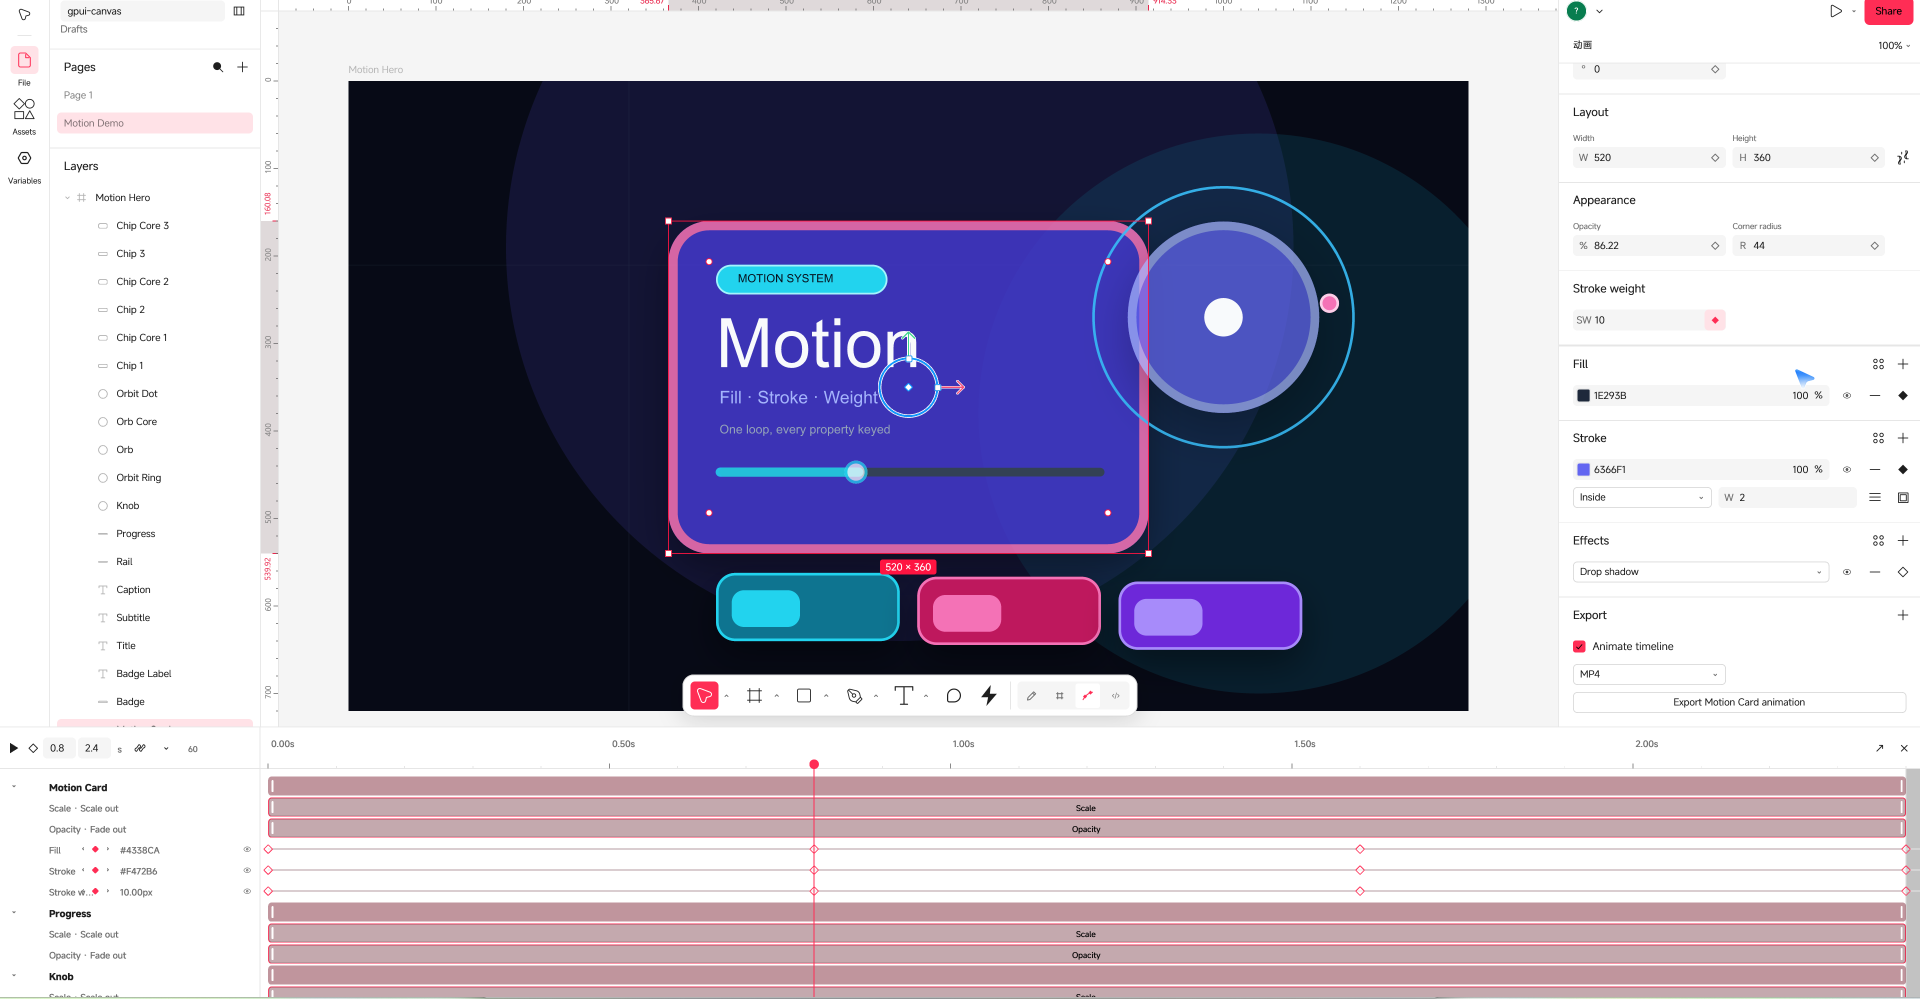
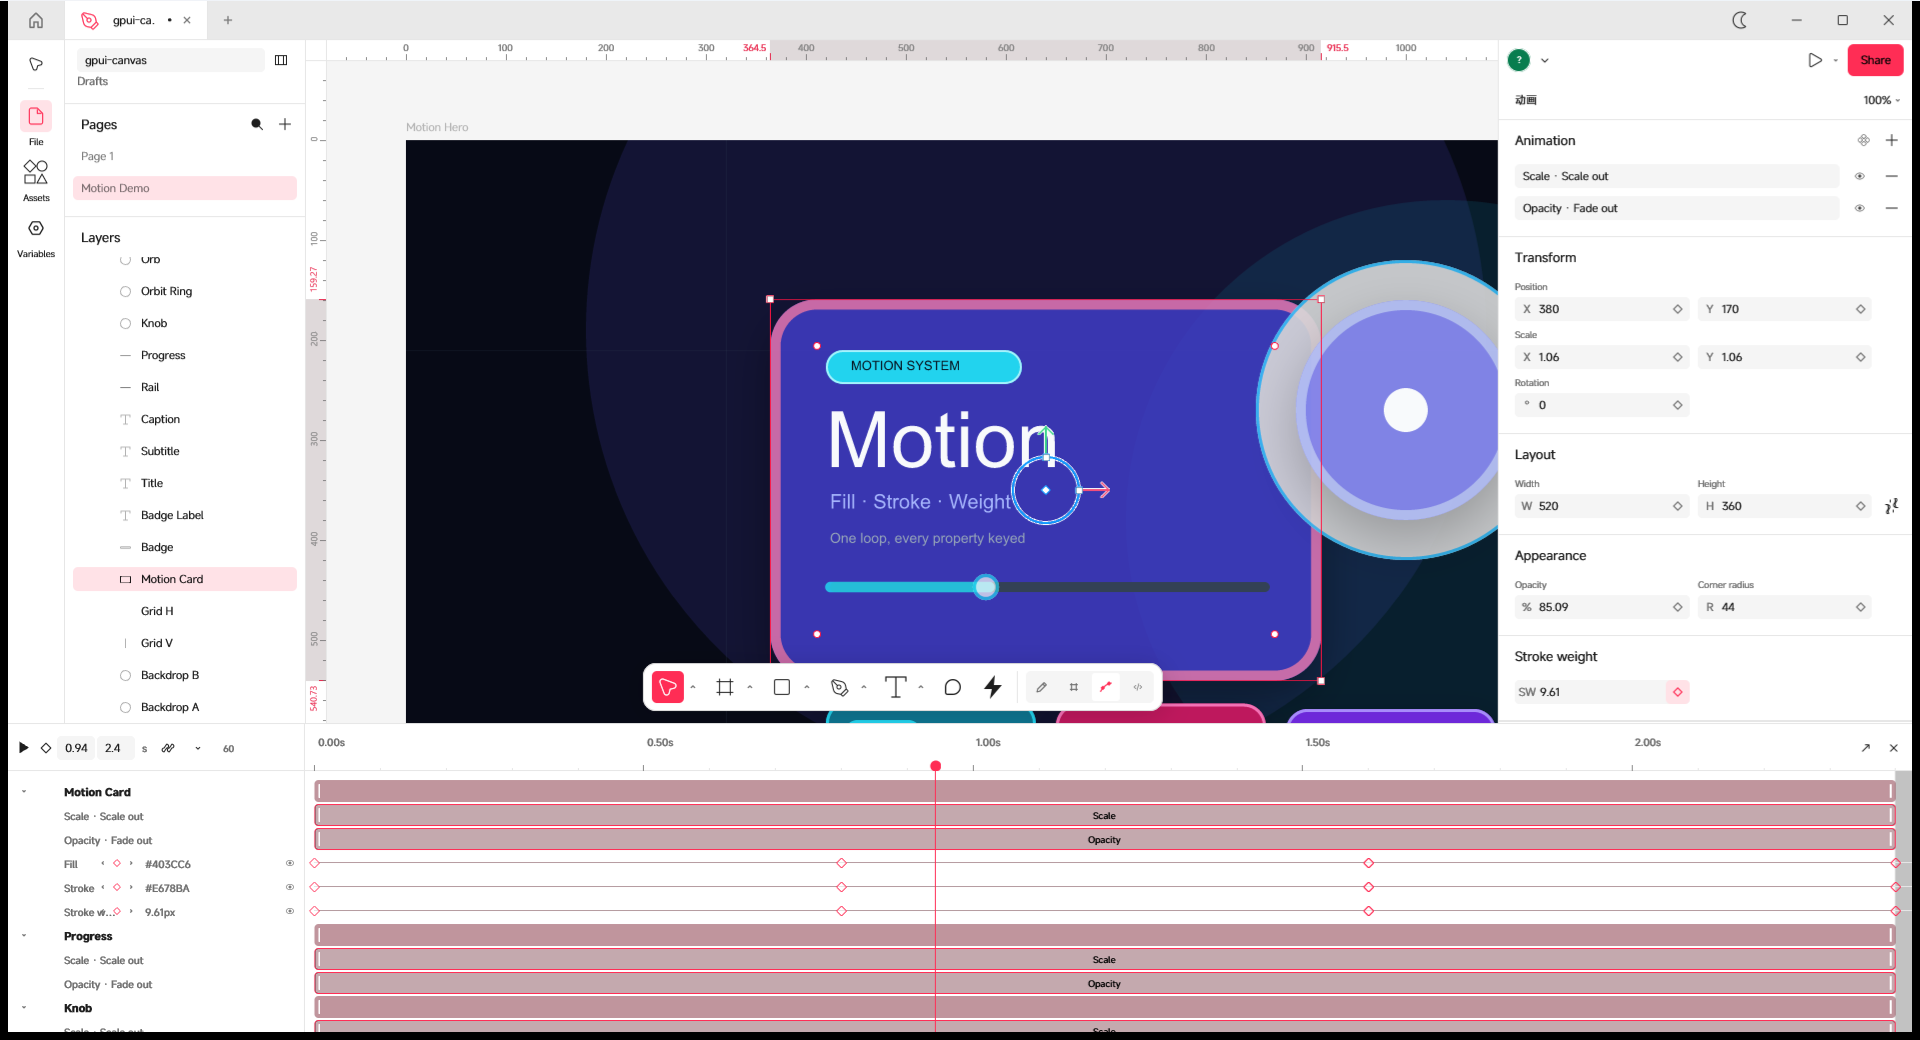
feat(export): export the selected layer without an animation switch

diff --git a/crates/ui-gpui/src/panels/right/sections.rs b/crates/ui-gpui/src/panels/right/sections.rs
@@ -2333,24 +2333,13 @@ pub(crate) fn export(f: &RightFields, d: &PanelData, col: f32, _n: &mut usize, c
     // page has no setting yet (the button falls back to PNG); only a non-page empty selection
     // collapses to an empty section.
     let rows = d.exports.clone().filter(|v| !v.is_empty()).unwrap_or_default();
-    // The Export section is the one export surface. In Motion mode a single selected layer also
-    // gets an animation switch here, so the timeline never needs a second Export dialog.
-    let animatable = motion && !page_mode && target.len() == 1;
-    let anim_on = animatable && f.export_animation.get();
-    if rows.is_empty() && !page_mode && !animatable {
+    // The selection is the export target. In Motion mode a single selected layer exports its
+    // timeline directly: no extra switch, no second Export dialog.
+    let anim_on = motion && !page_mode && target.len() == 1;
+    if rows.is_empty() && !page_mode && !anim_on {
         return Section::empty(tr("Export"), plus);
     }
     let mut sec = PanelSection::new(tr("Export")).header_trail(plus);
-    if animatable {
-        let state = f.export_animation.clone();
-        let wake = f.cmds.clone();
-        sec = sec.child(field_row_full(Checkbox::new("export-animation").label(tr("Animate timeline")).checked(anim_on).on_change(
-            move |on, _w, _cx| {
-                state.set(*on);
-                wake.wake();
-            },
-        )));
-    }
     // 预览框是整行宽（两列 + 间隙），图片再让出左右内边距与 8 pt 呼吸位。
     let full_w = col * 2.0 + crate::widgets::GRID_GAP;
     if anim_on {
@@ -2412,7 +2401,7 @@ pub(crate) fn export(f: &RightFields, d: &PanelData, col: f32, _n: &mut usize, c
         let scale = rows.first().and_then(|r| r.size.trim().trim_start_matches('@').trim_end_matches('x').parse::<f64>().ok()).unwrap_or(1.0);
         let cmd = CMDS[i];
         let params = json!({ "ids": &target, "format": EXTS[i], "fps": FPS[i], "scale": scale });
-        let label = if name.is_empty() { tr("Export animation").into() } else { trf("Export {name} animation", &[("name", &name)]).into() };
+        let label = if name.is_empty() { tr("Export").into() } else { trf("Export {name}", &[("name", &name)]).into() };
         (cmd, params, label)
     } else if page_mode {
         let fmt = rows.first().map(|r| r.format).unwrap_or("png");

diff --git a/crates/ui-gpui/src/panels.rs b/crates/ui-gpui/src/panels.rs
@@ -672,9 +672,6 @@ pub(crate) struct RightFields {
     /// Export 节「Preview」折叠行是否展开（egui `app.ui.export_thumb`）。纯 UI 状态，按窗口隔离；
     /// 只有展开时才让 `panel_data` 去光栅化预览图，避免每份文档白白渲染一张缩略图。
     export_preview_open: std::rc::Rc<std::cell::Cell<bool>>,
-    /// Export 节里「Animation」开关：打开后同一个 Export 按钮改走 `motion.export`，
-    /// 不再另开一个导出弹窗。纯 UI 状态，不进文档。
-    export_animation: std::rc::Rc<std::cell::Cell<bool>>,
     /// Animation 格式下标（0 MP4 / 1 GIF / 2 WebM / 3 PNG sequence），只影响当前窗口。
     export_animation_format: std::rc::Rc<std::cell::RefCell<usize>>,
     /// 该节头部是否悬停（lizard 只在悬停时画 chevron、把标题提亮）。
@@ -1331,7 +1328,6 @@ impl RightFields {
             selection_colors_open: std::rc::Rc::new(std::cell::RefCell::new(std::collections::HashMap::new())),
             selection_colors_hover: std::rc::Rc::new(std::cell::RefCell::new(false)),
             export_preview_open: std::rc::Rc::new(std::cell::Cell::new(false)),
-            export_animation: std::rc::Rc::new(std::cell::Cell::new(false)),
             export_animation_format: std::rc::Rc::new(std::cell::RefCell::new(0usize)),
             right_tab: std::rc::Rc::new(std::cell::RefCell::new(0u8)),
             local_style_renaming: local_style_renaming.clone(),
@@ -1522,7 +1518,6 @@ impl RightFields {
         f.selection_colors_open = Default::default();
         f.selection_colors_hover = Default::default();
         f.export_preview_open = Default::default();
-        f.export_animation = Default::default();
         f.export_animation_format = Default::default();
         f.right_tab = Default::default();
         f.local_style_renaming = Default::default();

diff --git a/README.md b/README.md
@@ -85,9 +85,9 @@ All screenshots below are of the running GPUI application (`cargo run -p figcraf
 </table>
 
 <p align="center">
-  <img src="docs/images/screenshots/09-animation-export.png" alt="The full Monet window in Motion mode: Motion Card selected, its Fill, Stroke and Stroke weight keyframes in the timeline, and the one right-hand Export section with Animate timeline enabled, an MP4 format picker and a single Export Motion Card animation button" width="900">
+  <img src="docs/images/screenshots/09-animation-export.png" alt="The full Monet window in Motion mode: Motion Card selected, its Fill, Stroke and Stroke weight keyframes in the timeline, and the right-hand Export section following the selection — an MP4 format picker and an Export Motion Card button, with no separate animation switch" width="900">
   <br>
-  <sub><b>One export surface</b> — the right-hand Export section switches between still-image export and MP4, GIF, WebM or PNG-sequence timeline export; there is no second export dialog, and the save/render path stays off the UI thread.</sub>
+  <sub><b>One export surface</b> — the right-hand Export section exports whatever layer is selected; in Motion mode the same section offers MP4, GIF, WebM or PNG-sequence timeline export, with no second dialog and no extra animation switch. The save/render path stays off the UI thread.</sub>
 </p>
 
 ## What this is

diff --git a/README.zh-CN.md b/README.zh-CN.md
@@ -84,9 +84,9 @@
 </table>
 
 <p align="center">
-  <img src="docs/images/screenshots/09-animation-export.png" alt="Monet 完整窗口的 Motion 模式：选中 Motion Card，时间轴上显示 Fill、Stroke 和 Stroke weight 关键帧；右侧只有一个 Export 节，打开 Animate timeline 后出现 MP4 格式选择器和唯一的 Export Motion Card animation 按钮" width="900">
+  <img src="docs/images/screenshots/09-animation-export.png" alt="Monet 完整窗口的 Motion 模式：选中 Motion Card，时间轴上显示 Fill、Stroke 和 Stroke weight 关键帧；右侧 Export 节跟随当前选择，显示 MP4 格式选择器和 Export Motion Card 按钮，没有额外的动画开关" width="900">
   <br>
-  <sub><b>唯一的导出面</b> —— 右侧 Export 节在静态图片导出和 MP4、GIF、WebM、PNG 序列时间轴导出之间切换；不再有第二个导出对话框，保存/渲染都不占 UI 线程。</sub>
+  <sub><b>唯一的导出面</b> —— 右侧 Export 节导出当前选中的图层；在 Motion 模式下同一个节提供 MP4、GIF、WebM、PNG 序列时间轴导出，没有第二个对话框，也没有额外的动画开关。保存/渲染都不占 UI 线程。</sub>
 </p>
 
 ## 这是什么
